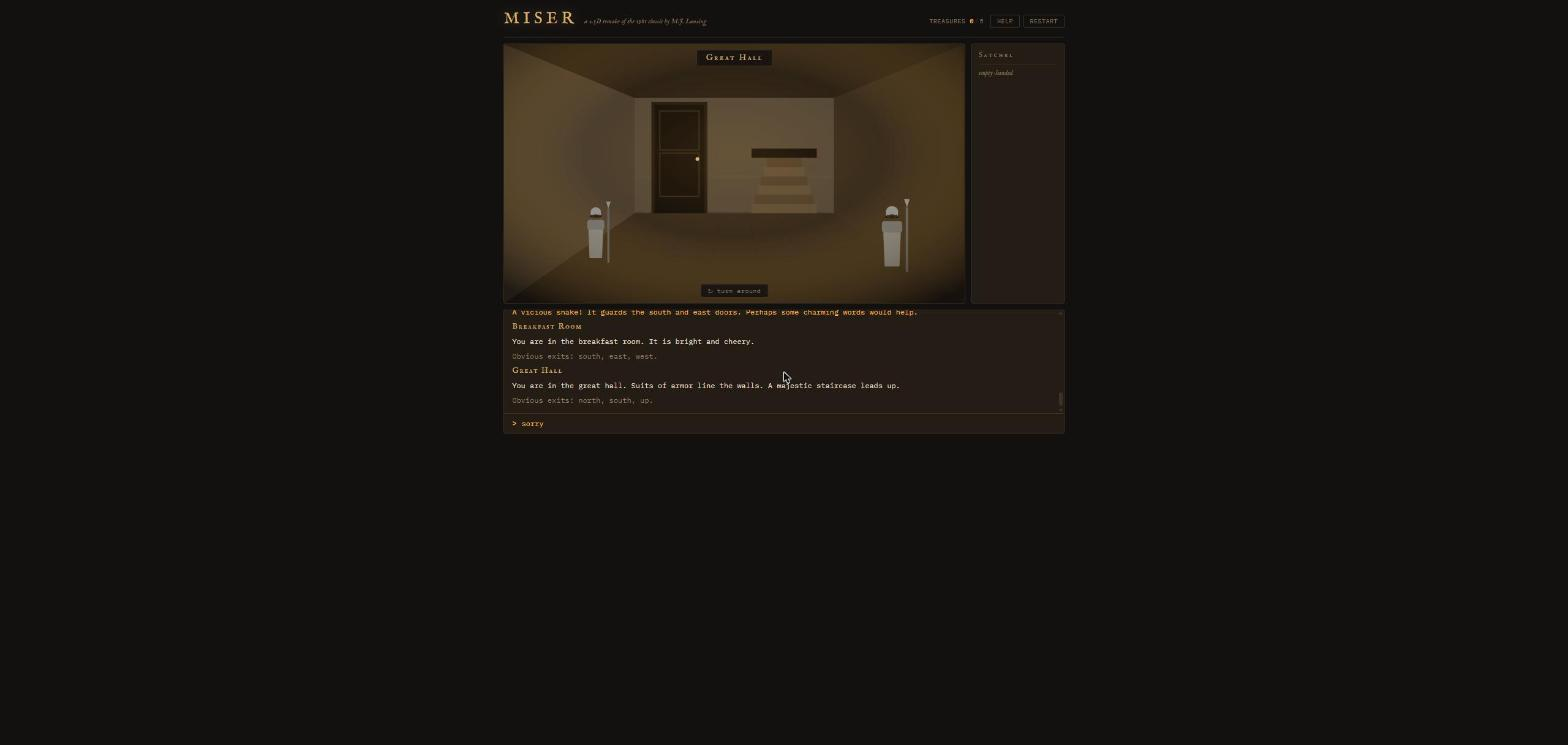
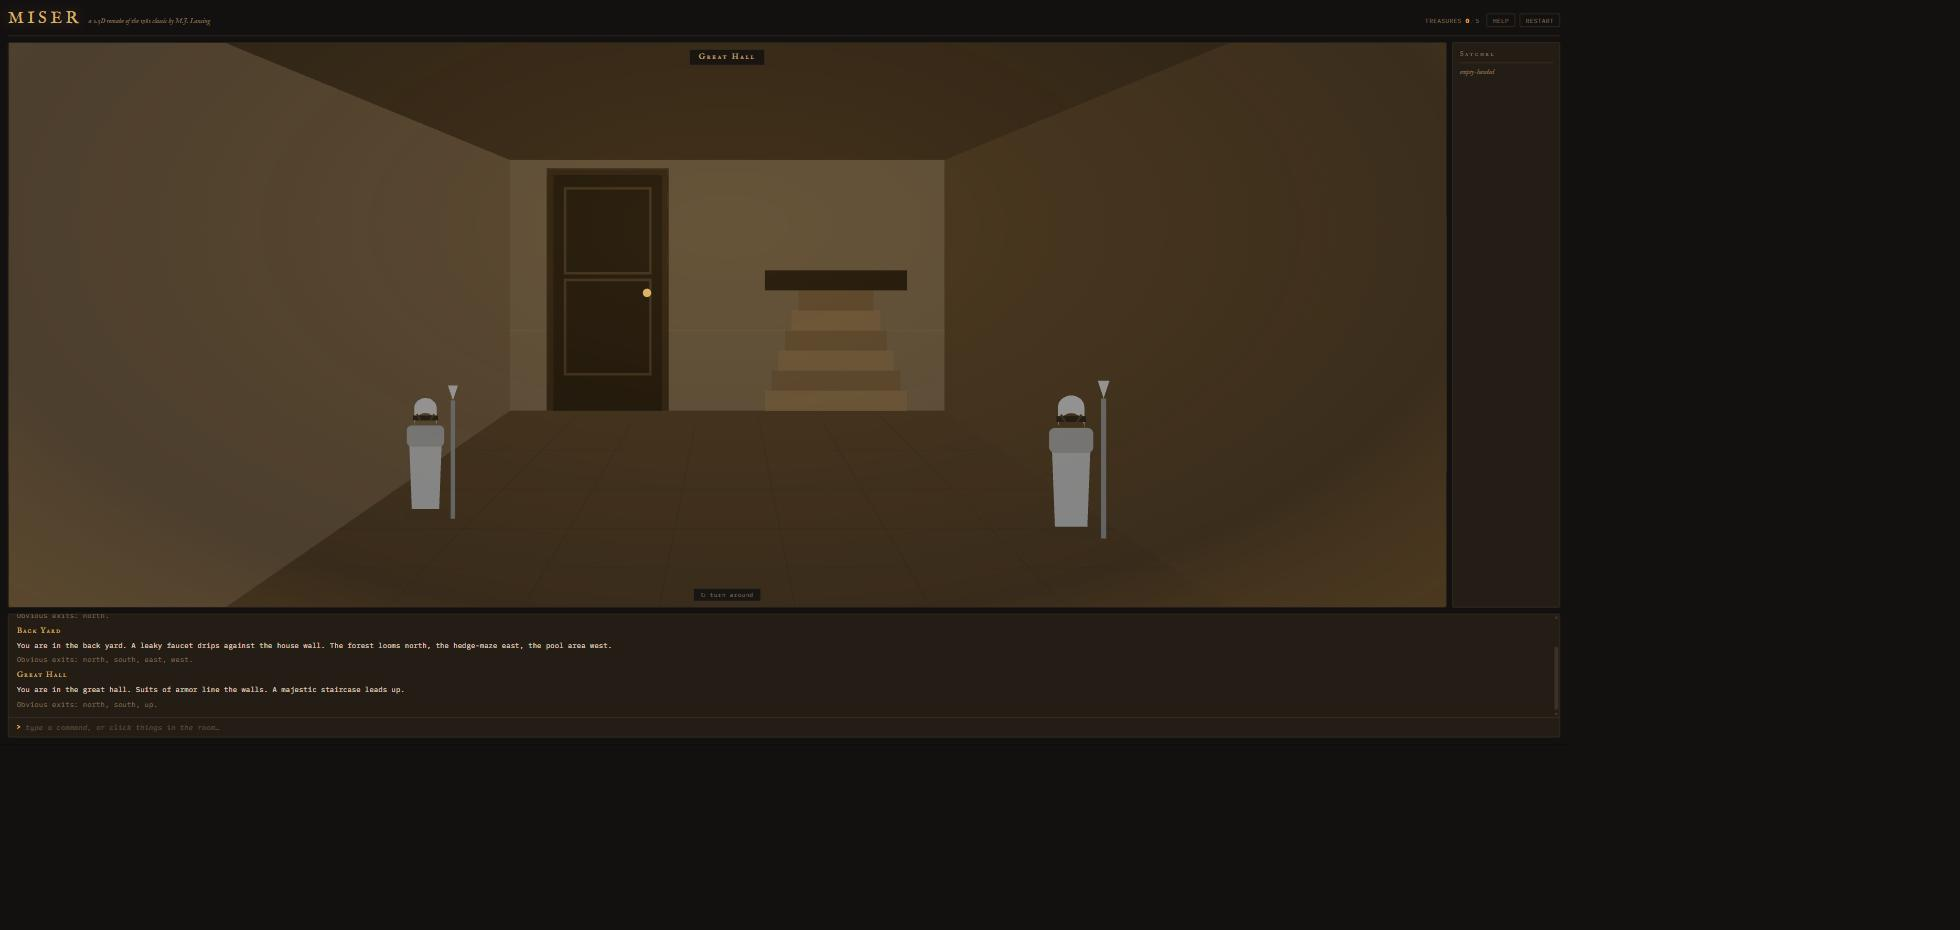
Full-viewport layout, extended scene geometry, parser + modal fixes
- Layout now fills the browser window (grid rows, dvh, scene stretches)
- Room shells extend past the viewBox so wide screens show walls, not void
- Word-list matches take priority over name substrings (take ripcord bug)
- Modal hidden attribute now wins over display:flex
- Bigger porch mat; new README screenshot

diff --git a/js/scene.js b/js/scene.js
@@ -42,15 +42,21 @@ const Scene = (() => {
 
   /* ---------- shells ---------- */
 
+  // Perspective lines extended past the 1200x675 viewBox so wide screens
+  // (preserveAspectRatio "meet" letterboxing) still show room, not void.
+  // Extension factor s=3.353 puts the near plane at x = -800 / 2000.
+  const EXT = { xL: -800, xR: VW + 800, yTop: -329, yBot: 1228, yTopHedge: -299 };
+
   function shellRoom(p) {
     const wall = p.wall || '#4a3b2a', back = p.back || '#544433';
     const floor = p.floor || '#33261a', ceil = p.ceil || '#241c13';
     const dark = shade(wall, -18), light = shade(back, 10);
+    const E = EXT;
     return `
-      <polygon points="0,0 ${VW},0 ${BW.x2},${BW.y1} ${BW.x1},${BW.y1}" fill="${ceil}"/>
-      <polygon points="0,${VH} ${VW},${VH} ${BW.x2},${BW.y2} ${BW.x1},${BW.y2}" fill="${floor}"/>
-      <polygon points="0,0 ${BW.x1},${BW.y1} ${BW.x1},${BW.y2} 0,${VH}" fill="${wall}"/>
-      <polygon points="${VW},0 ${BW.x2},${BW.y1} ${BW.x2},${BW.y2} ${VW},${VH}" fill="${dark}"/>
+      <polygon points="${E.xL},${E.yTop} ${E.xR},${E.yTop} ${BW.x2},${BW.y1} ${BW.x1},${BW.y1}" fill="${ceil}"/>
+      <polygon points="${E.xL},${E.yBot} ${E.xR},${E.yBot} ${BW.x2},${BW.y2} ${BW.x1},${BW.y2}" fill="${floor}"/>
+      <polygon points="${E.xL},${E.yTop} ${BW.x1},${BW.y1} ${BW.x1},${BW.y2} ${E.xL},${E.yBot}" fill="${wall}"/>
+      <polygon points="${E.xR},${E.yTop} ${BW.x2},${BW.y1} ${BW.x2},${BW.y2} ${E.xR},${E.yBot}" fill="${dark}"/>
       <rect x="${BW.x1}" y="${BW.y1}" width="${BW.x2 - BW.x1}" height="${BW.y2 - BW.y1}" fill="${back}"/>
       ${floorLines(floor)}
       <line x1="${BW.x1}" y1="${lerp(BW.y1, BW.y2, 0.68)}" x2="${BW.x2}" y2="${lerp(BW.y1, BW.y2, 0.68)}" stroke="${light}" stroke-opacity="0.5" stroke-width="3"/>
@@ -60,27 +66,29 @@ const Scene = (() => {
   function shellOutdoor(p) {
     const ground = p.floor || '#232a1c';
     const horizon = BW.y2;
+    const E = EXT;
     return `
-      <rect x="0" y="0" width="${VW}" height="${horizon}" fill="url(#sky-grad)"/>
+      <rect x="${E.xL}" y="-400" width="${E.xR - E.xL}" height="${horizon + 400}" fill="url(#sky-grad)"/>
       <circle cx="960" cy="110" r="42" fill="#e8ddc8" opacity="0.8"/>
       <circle cx="944" cy="100" r="40" fill="#0f1520" opacity="0.92"/>
       ${stars()}
       ${p.silhouette ? mansionSilhouette() : ''}
-      <rect x="0" y="${horizon}" width="${VW}" height="${VH - horizon}" fill="${ground}"/>
-      <polygon points="0,${VH} ${VW},${VH} ${BW.x2},${BW.y2} ${BW.x1},${BW.y2}" fill="${shade(ground, 8)}"/>
+      <rect x="${E.xL}" y="${horizon}" width="${E.xR - E.xL}" height="${E.yBot - horizon}" fill="${ground}"/>
+      <polygon points="${E.xL},${E.yBot} ${E.xR},${E.yBot} ${BW.x2},${BW.y2} ${BW.x1},${BW.y2}" fill="${shade(ground, 8)}"/>
     `;
   }
 
   function shellHedge(p) {
     const hedge = p.wall || '#26331f', hedgeD = shade(hedge, -12);
     const ground = p.floor || '#2a2e1d';
+    const E = EXT;
     return `
-      <rect x="0" y="0" width="${VW}" height="${BW.y2}" fill="url(#sky-grad)"/>
+      <rect x="${E.xL}" y="-400" width="${E.xR - E.xL}" height="${BW.y2 + 400}" fill="url(#sky-grad)"/>
       ${stars()}
-      <polygon points="0,${VH} ${VW},${VH} ${BW.x2},${BW.y2} ${BW.x1},${BW.y2}" fill="${ground}"/>
-      <rect x="0" y="${VH - 60}" width="${VW}" height="60" fill="${shade(ground, -8)}"/>
-      <polygon points="0,30 ${BW.x1},${BW.y1 + 30} ${BW.x1},${BW.y2} 0,${VH}" fill="${hedge}"/>
-      <polygon points="${VW},30 ${BW.x2},${BW.y1 + 30} ${BW.x2},${BW.y2} ${VW},${VH}" fill="${hedgeD}"/>
+      <polygon points="${E.xL},${E.yBot} ${E.xR},${E.yBot} ${BW.x2},${BW.y2} ${BW.x1},${BW.y2}" fill="${ground}"/>
+      <rect x="${E.xL}" y="${VH - 60}" width="${E.xR - E.xL}" height="${E.yBot - VH + 60}" fill="${shade(ground, -8)}"/>
+      <polygon points="${E.xL},${E.yTopHedge} ${BW.x1},${BW.y1 + 30} ${BW.x1},${BW.y2} ${E.xL},${E.yBot}" fill="${hedge}"/>
+      <polygon points="${E.xR},${E.yTopHedge} ${BW.x2},${BW.y1 + 30} ${BW.x2},${BW.y2} ${E.xR},${E.yBot}" fill="${hedgeD}"/>
       <rect x="${BW.x1}" y="${BW.y1 + 30}" width="${BW.x2 - BW.x1}" height="${BW.y2 - BW.y1 - 30}" fill="${shade(hedge, -5)}"/>
       ${leafTexture(hedge)}
     `;
@@ -518,10 +526,11 @@ const Scene = (() => {
 
     svgEl.innerHTML = `
       ${defs()}
+      <rect x="-800" y="-400" width="${VW + 1600}" height="${VH + 800}" fill="#0e0b09"/>
       ${shell}
       ${doors}
       ${props}
-      <rect x="0" y="0" width="${VW}" height="${VH}" fill="url(#candle-light)" pointer-events="none" class="light-veil"/>
+      <rect x="-800" y="-400" width="${VW + 1600}" height="${VH + 800}" fill="url(#candle-light)" pointer-events="none" class="light-veil"/>
     `;
   }
 

diff --git a/css/style.css b/css/style.css
@@ -33,12 +33,12 @@ body {
 }
 
 #app {
-  max-width: 1180px;
-  min-height: 100vh;
-  margin: 0 auto;
-  padding: 14px 18px 22px;
-  display: flex;
-  flex-direction: column;
+  width: 100%;
+  height: 100vh;
+  height: 100dvh;
+  padding: 12px 16px 14px;
+  display: grid;
+  grid-template-rows: auto minmax(0, 1fr) auto;
   gap: 12px;
 }
 
@@ -106,9 +106,10 @@ body {
 
 #stage {
   display: grid;
-  grid-template-columns: 1fr 190px;
+  grid-template-columns: minmax(0, 1fr) 220px;
   gap: 12px;
   align-items: stretch;
+  min-height: 0;
 }
 
 #scene-wrap {
@@ -118,9 +119,16 @@ body {
   border-radius: 4px;
   overflow: hidden;
   box-shadow: inset 0 0 80px rgba(0, 0, 0, 0.55);
+  min-height: 0;
 }
 
-#scene { display: block; width: 100%; height: auto; }
+#scene {
+  position: absolute;
+  inset: 0;
+  display: block;
+  width: 100%;
+  height: 100%;
+}
 
 #scene .hotspot { cursor: pointer; }
 #scene .hotspot:hover .hs-body,
@@ -380,7 +388,9 @@ body {
 /* ---------- responsive ---------- */
 
 @media (max-width: 860px) {
+  #app { height: auto; min-height: 100vh; }
   #stage { grid-template-columns: 1fr; }
+  #scene-wrap { min-height: 48vh; }
   #satchel { flex-direction: row; align-items: baseline; gap: 12px; }
   #satchel h2 { border-bottom: none; margin-bottom: 0; padding-bottom: 0; }
   #inventory { display: flex; flex-wrap: wrap; gap: 4px; }

diff --git a/js/data.js b/js/data.js
@@ -107,7 +107,7 @@ const GAME = {
         },
       },
       props: [
-        { type: 'mat', on: 'floor', u: 0, t: 0.85, id: 'mat', name: 'worn mat', words: ['mat', 'doormat'],
+        { type: 'mat', on: 'floor', u: 0, t: 0.8, scale: 1.7, id: 'mat', name: 'worn mat', words: ['mat', 'doormat'],
           desc: 'A worn welcome mat. Nobody has been welcome here for years.',
           onClick: a => { a.print('> move mat', 'echo'); GAME.rooms.front_porch.props[0].verbs.move(a); },
           verbs: {
